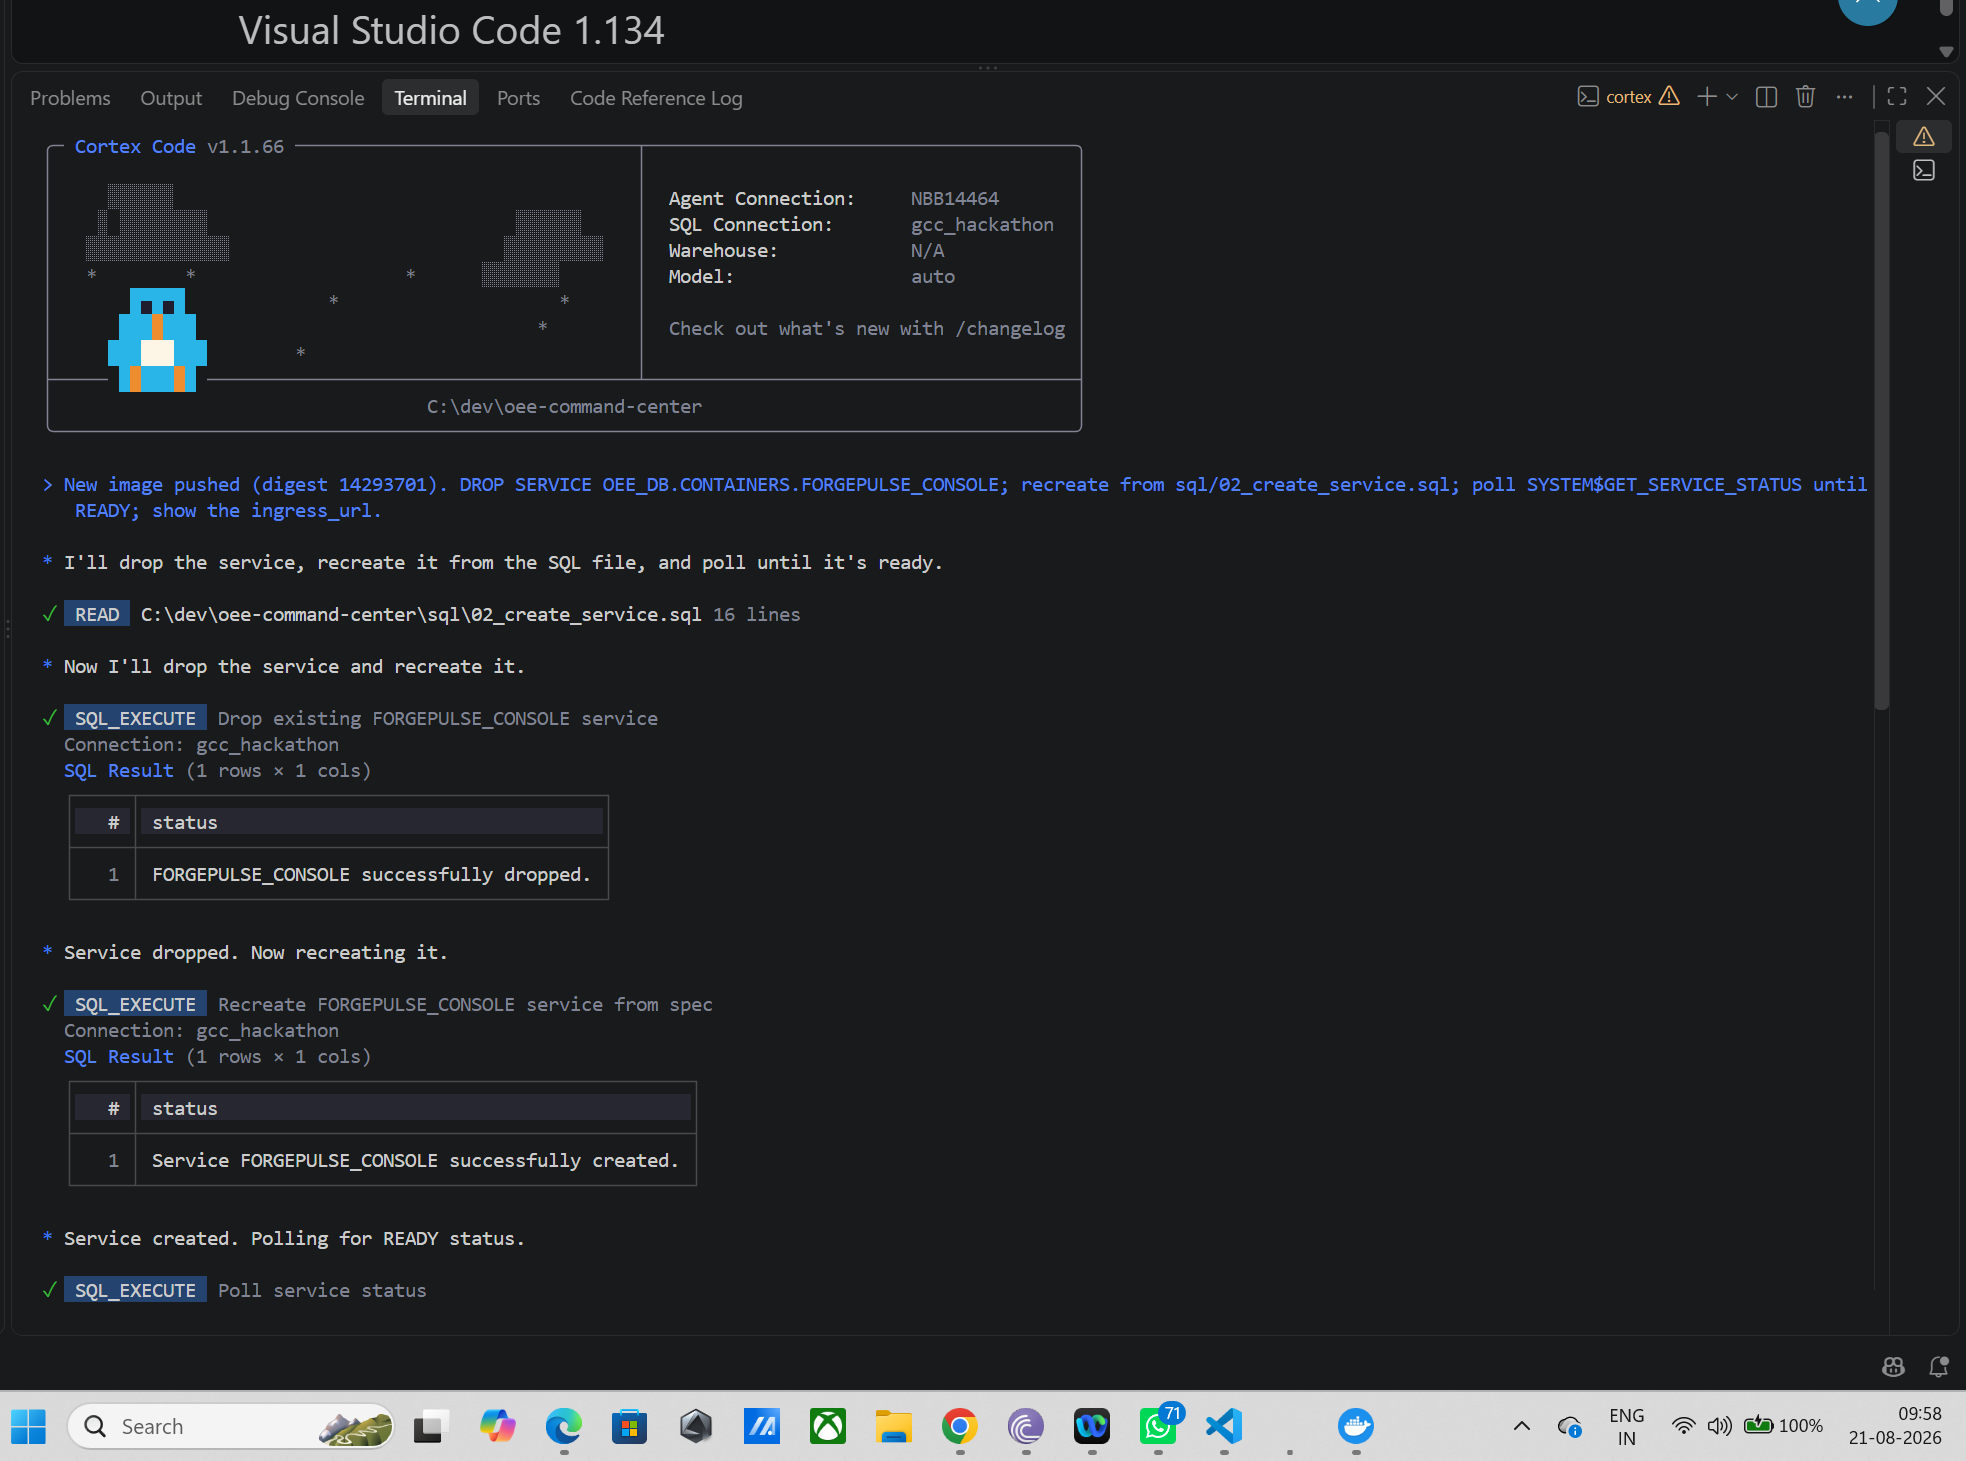
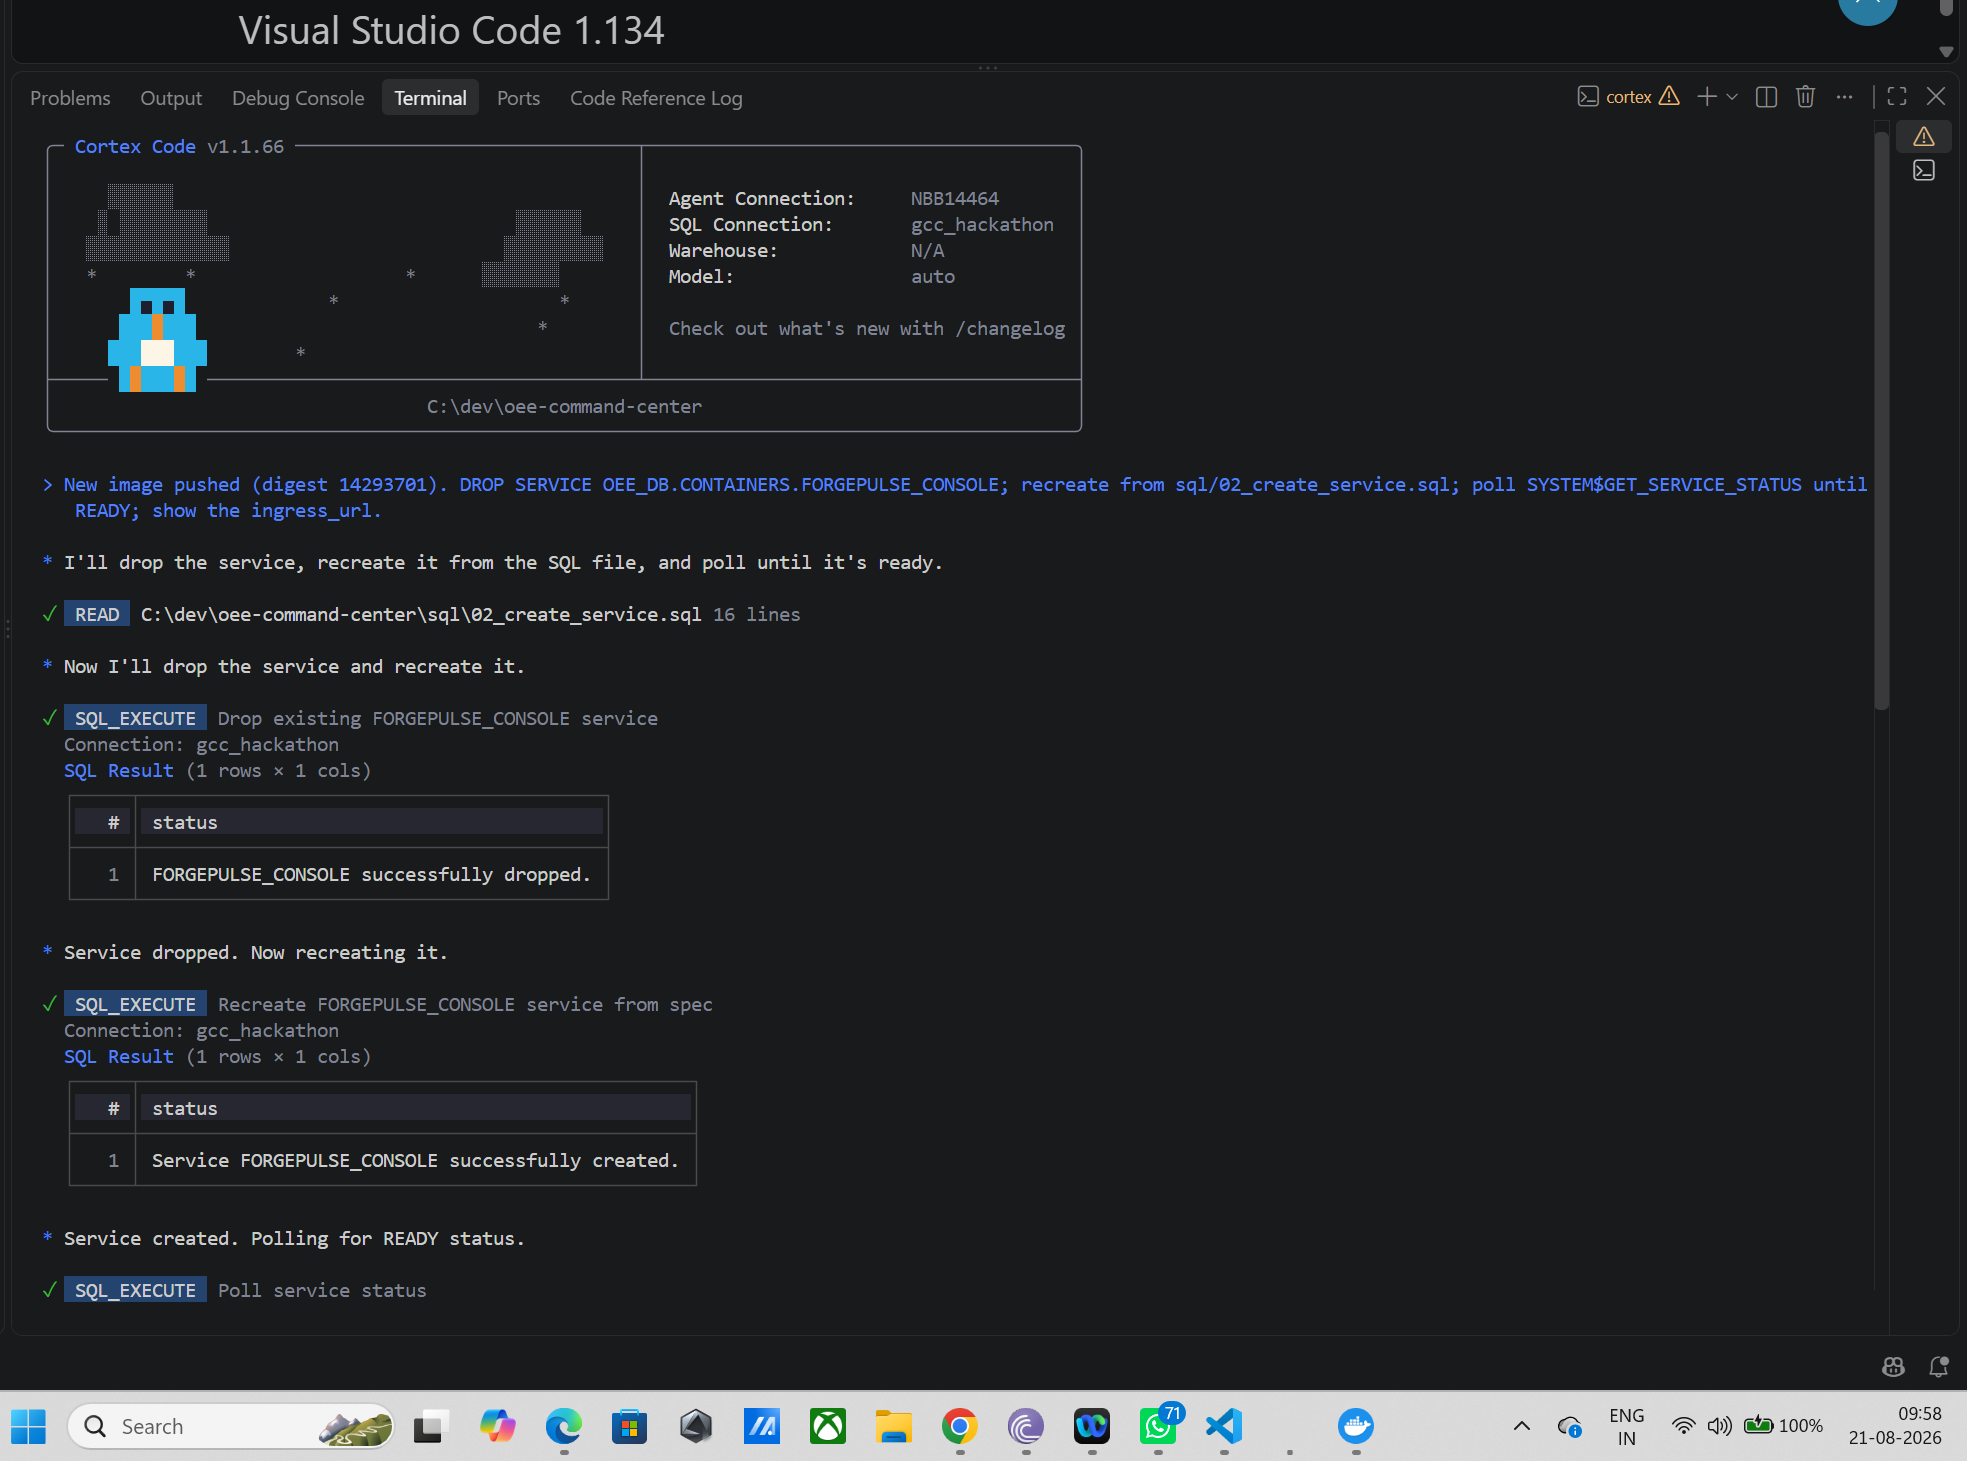
console: sentinel-style live scope driven by real envelope, mock label removed

diff --git a/forgepulse-ui/web/console.html b/forgepulse-ui/web/console.html
@@ -197,49 +197,20 @@ function drawSpark(c,vals,color){
     i?x.lineTo(px,py):x.moveTo(px,py)});
   x.strokeStyle=color;x.lineWidth=1.3;x.stroke();
 }
-async function draw(){
+// ── live scope: ring buffer of dense samples, amplitude = real data / baseline ──
+let live=null, ring=[], RING=700;
+async function fetchLive(){
   try{
     const d=await j("/api/live/"+motor+"?sensor="+sensor);
+    const changed=!live||live.asset_id!==d.asset_id||live.sensor!==d.sensor;
+    live=d; if(changed) ring=[];
     renderDetails();
     const label=SENSORS.find(s=>s[0]===sensor)[1];
     $("legend").innerHTML='<span class="sw">— <b>'+label+'</b></span>'
       +'<span>RMS: <b>'+d.stats.rms+'</b></span><span>Peak: <b>'+d.stats.peak+'</b></span>'
-      +'<span>Avg: <b>'+d.stats.avg+'</b></span>';
-    const c=$("wave"),x=c.getContext("2d"),W=c.width,H=c.height,mid=H/2;
-    x.clearRect(0,0,W,H);
-    x.strokeStyle="#16202c";x.lineWidth=.6;x.setLineDash([3,4]);
-    for(let i=1;i<8;i++){x.beginPath();x.moveTo(0,i*H/8);x.lineTo(W,i*H/8);x.stroke()}
-    for(let i=1;i<12;i++){x.beginPath();x.moveTo(i*W/12,0);x.lineTo(i*W/12,H);x.stroke()}
-    x.setLineDash([]);
-    const raw=d.points;
-    let lo=Math.min.apply(null,raw),hi=Math.max.apply(null,raw);
-    if(d.baseline&&d.baseline>0){lo=Math.min(lo,d.baseline);hi=Math.max(hi,d.baseline)}
-    const pad=(hi-lo)*0.15||1;lo-=pad;hi+=pad;const sp=hi-lo;
-    const X=i=>i/(raw.length-1)*W, Y=v=>H-((v-lo)/sp)*(H-30)-15;
-    if(d.baseline&&d.baseline>0){x.strokeStyle="#2dd4bf";x.setLineDash([5,5]);x.lineWidth=1;
-      x.beginPath();x.moveTo(0,Y(d.baseline));x.lineTo(W,Y(d.baseline));x.stroke();x.setLineDash([]);
-      x.fillStyle="#2dd4bf";x.font="10px monospace";x.fillText("baseline "+d.baseline.toFixed(2),6,Y(d.baseline)-5)}
-    const a=d.anomaly[0];
-    if(a){x.fillStyle="rgba(239,68,68,.10)";x.fillRect(X(a.start),0,X(a.end)-X(a.start),H);
-      x.strokeStyle="#ef4444";x.setLineDash([6,5]);x.lineWidth=1.4;
-      x.strokeRect(X(a.start),1,X(a.end)-X(a.start),H-2);x.setLineDash([]);
-      const b=$("banner");b.style.display="block";
-      b.style.left=Math.min(X(a.start),W*.55)/W*100+"%";
-      b.textContent="⚠ "+(a.label||"ABNORMAL PATTERN DETECTED");
-    } else $("banner").style.display="none";
-    x.lineWidth=1.5;x.beginPath();raw.forEach((v,i)=>{i?x.lineTo(X(i),Y(v)):x.moveTo(X(i),Y(v))});
-    x.strokeStyle="#3b9eff";x.stroke();
-    if(a){x.save();x.beginPath();x.rect(X(a.start),0,X(a.end)-X(a.start),H);x.clip();
-      x.beginPath();raw.forEach((v,i)=>{i?x.lineTo(X(i),Y(v)):x.moveTo(X(i),Y(v))});
-      x.strokeStyle="#ef4444";x.lineWidth=2;x.shadowColor="#ef4444";x.shadowBlur=10;x.stroke();
-      x.restore();x.shadowBlur=0}
-    const sc=$("scrub"),sx=sc.getContext("2d");sx.clearRect(0,0,sc.width,sc.height);
-    if(a){sx.fillStyle="rgba(239,68,68,.22)";
-      sx.fillRect(X(a.start)/W*sc.width,0,(X(a.end)-X(a.start))/W*sc.width,sc.height)}
-    sx.beginPath();raw.forEach(function(v,i){const px=i/(raw.length-1)*sc.width,
-      py=sc.height-((v-lo)/sp)*(sc.height-6)-3;i?sx.lineTo(px,py):sx.moveTo(px,py)});
-    sx.strokeStyle="#2b6cb0";sx.lineWidth=.8;sx.stroke();
-    const tail=raw.slice(-40);
+      +'<span>Avg: <b>'+d.stats.avg+'</b></span>'
+      +'<span style="color:var(--mute);font-size:10px">display envelope: live values × baseline</span>';
+    const tail=d.points.slice(-40);
     $("cards").innerHTML=[["RMS",d.stats.rms],["PEAK",d.stats.peak],["AVG",d.stats.avg],
       ["BASELINE",d.baseline.toFixed(2)]].map(function(kv,i){
       return '<div class="stat"><div><div class="k">'+kv[0]+'</div><div class="v">'+kv[1]+'</div></div>'
@@ -247,6 +218,76 @@ async function draw(){
     [0,1,2,3].forEach(i=>drawSpark($("sp"+i),tail,"#22c55e"));
   }catch(e){}
 }
+function gauss(){let t=0;for(let i=0;i<4;i++)t+=Math.random();return (t-2)/1.2}
+function drawFrame(){
+  requestAnimationFrame(drawFrame);
+  const c=$("wave");if(!c)return;
+  const x=c.getContext("2d"),W=c.width,H=c.height,mid=H/2;
+  if(live){
+    const raw=live.points,n=raw.length,
+      base=(live.baseline&&live.baseline>0)?live.baseline:1;
+    const ratio=raw[n-1]/base;             // current real severity
+    const hot=ratio>=2.0;
+    for(let k=0;k<3;k++){                  // 3 samples/frame ≈ 180 Hz display
+      const spike=(Math.random()<0.006)?(2.2+Math.random()*1.5):1;
+      ring.push({v:gauss()*spike, r:ratio, hot:hot});
+    }
+    while(ring.length>RING) ring.shift();
+  }
+  x.clearRect(0,0,W,H);
+  x.strokeStyle="#16202c";x.lineWidth=.6;x.setLineDash([3,4]);
+  for(let i=1;i<8;i++){x.beginPath();x.moveTo(0,i*H/8);x.lineTo(W,i*H/8);x.stroke()}
+  for(let i=1;i<12;i++){x.beginPath();x.moveTo(i*W/12,0);x.lineTo(i*W/12,H);x.stroke()}
+  x.setLineDash([]);
+  if(!ring.length)return;
+  const m=ring.length, MAXR=4;
+  const px=i=>i/(RING-1)*W + (RING-m)/(RING-1)*W*0; // fill from left as buffer grows
+  const amp=r=>Math.min(r,MAXR)/MAXR*(mid-14);
+  const Y=s=>mid - s.v*amp(s.r)*0.45;
+  // hot region box from buffer
+  let h0=-1,h1=-1;
+  for(let i=0;i<m;i++){if(ring[i].hot){if(h0<0)h0=i;h1=i}}
+  if(h0>=0){
+    const X0=h0/(RING-1)*W, X1=Math.max(h1/(RING-1)*W, X0+30);
+    x.fillStyle="rgba(239,68,68,.10)";x.fillRect(X0,0,X1-X0,H);
+    x.strokeStyle="#ef4444";x.setLineDash([6,5]);x.lineWidth=1.4;
+    x.strokeRect(X0,1,X1-X0,H-2);x.setLineDash([]);
+    const b=$("banner");b.style.display="block";
+    b.style.left=Math.min(X0,W*.55)/W*100+"%";
+    b.textContent="⚠ "+((live&&live.anomaly[0]&&live.anomaly[0].label)||"ABNORMAL PATTERN DETECTED");
+  } else $("banner").style.display="none";
+  // blue pass (normal samples), then red pass (hot) — two simple paths
+  x.lineWidth=1.3;
+  x.strokeStyle="#3b9eff";x.beginPath();
+  let pen=false;
+  for(let i=0;i<m;i++){const s=ring[i];
+    if(s.hot){pen=false;continue}
+    const X=i/(RING-1)*W;
+    pen?x.lineTo(X,Y(s)):x.moveTo(X,Y(s));pen=true}
+  x.stroke();
+  x.strokeStyle="#ef4444";x.lineWidth=1.6;x.shadowColor="#ef4444";x.shadowBlur=8;
+  x.beginPath();pen=false;
+  for(let i=0;i<m;i++){const s=ring[i];
+    if(!s.hot){pen=false;continue}
+    const X=i/(RING-1)*W;
+    pen?x.lineTo(X,Y(s)):x.moveTo(X,Y(s));pen=true}
+  x.stroke();x.shadowBlur=0;
+  // scrubber: real values silhouette
+  if(live){
+    const raw=live.points,n=raw.length,
+      base=(live.baseline&&live.baseline>0)?live.baseline:1;
+    const sc=$("scrub"),sx=sc.getContext("2d");sx.clearRect(0,0,sc.width,sc.height);
+    const mr=Math.max(...raw.map(v=>v/base),2.5);
+    if(raw[n-1]/base>=2){sx.fillStyle="rgba(239,68,68,.22)";sx.fillRect(0,0,sc.width,sc.height)}
+    sx.beginPath();
+    for(let i=0;i<n;i++){const qx=i/(n-1)*sc.width,
+      qy=sc.height-((raw[i]/base)/mr)*(sc.height-6)-3;
+      i?sx.lineTo(qx,qy):sx.moveTo(qx,qy)}
+    sx.strokeStyle="#2b6cb0";sx.lineWidth=.8;sx.stroke();
+  }
+}
+requestAnimationFrame(drawFrame);
+function draw(){fetchLive()}
 const stageIdx=s=>s==="NEW"?0:s==="INVESTIGATING"?1:s==="ACTIONED"?3:1;
 function renderPipes(alerts){
   $("pipes").innerHTML=alerts.length?alerts.map(function(al){
@@ -276,12 +317,11 @@ async function refreshMeta(){
   assets=await j("/api/assets");
   const alerts=await j("/api/alerts");
   faultMap={};alerts.forEach(al=>faultMap[al.asset_id]=al.probable_mode.replaceAll("_"," "));
-  faultMap["AST-004"]=faultMap["AST-004"]||"RPM INSTABILITY";
   renderFloor();renderDetails();renderPipes(alerts);renderTicker(alerts);
 }
 async function boot(){
-  await refreshMeta();renderTabs();draw();
-  setInterval(draw,2000);setInterval(refreshMeta,15000);
+  await refreshMeta();renderTabs();fetchLive();
+  setInterval(fetchLive,2000);setInterval(refreshMeta,15000);
 }
 boot();
 </script>
